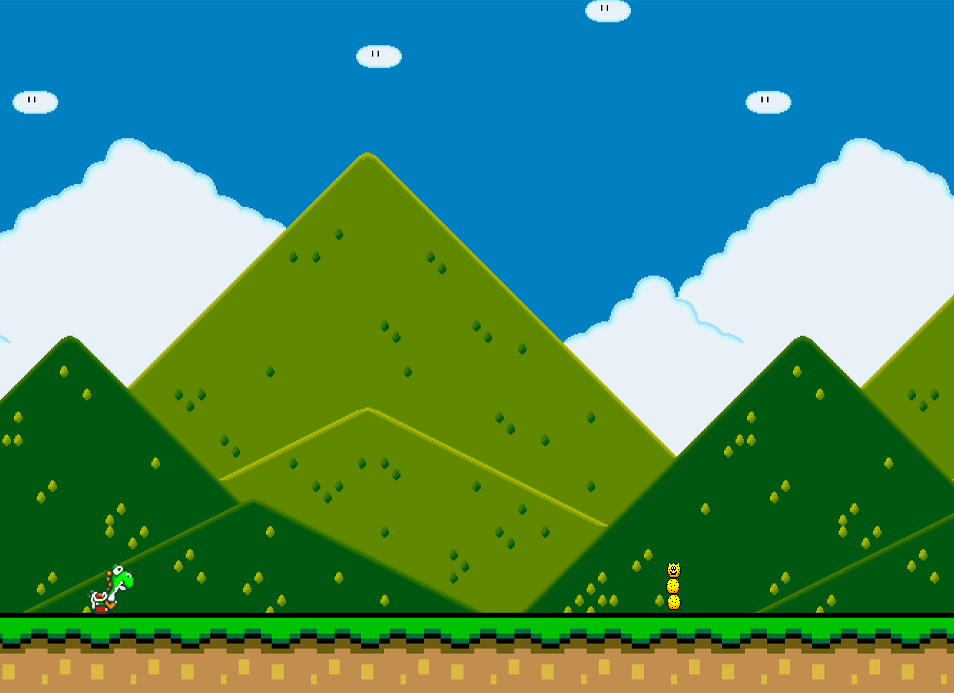
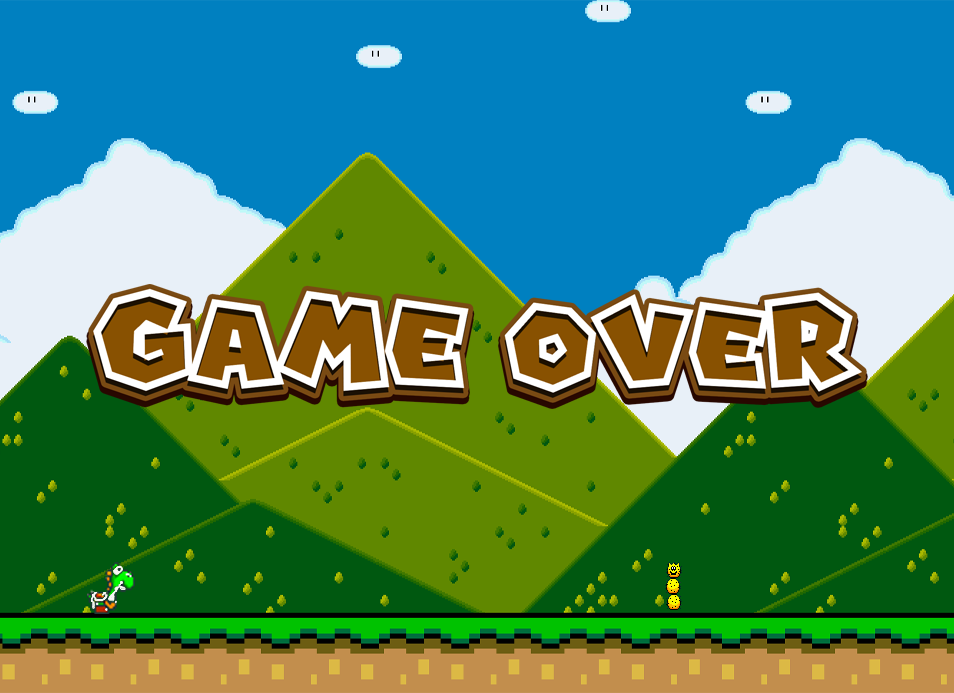
ajustes finais, correção pulo

Changed region(s): [[0.0912, 0.3939, 0.9119, 0.6061]]

diff --git a/script.js b/script.js
@@ -13,7 +13,6 @@ function handleKeyUp(event){
 }
 
 function jump(){
-
     isJumping = true;
 
     let upInterval = setInterval(() => {
@@ -34,7 +33,7 @@ function jump(){
         dino.style.bottom = position + 'px';
         }
 
-    }, 20);
+    }, 30);
 }
 
 function createCactus(){
@@ -43,25 +42,25 @@ function createCactus(){
     let randomTime = Math.random() * 6000;
 
     cactus.classList.add('cactus');
-    cactus.style.left = 1000 + 'px';
+    cactus.style.left = 1500 + 'px';
     background.appendChild(cactus);
 
     let leftInterval = setInterval(() =>{
-        if(cactusPosition < -60){
+        if(cactusPosition < -70){
             clearInterval(leftInterval);
             background.removeChild(cactus);
-        }else if (cactusPosition > 0 && cactusPosition < 60 && position < 60){
+        }else if (cactusPosition > 0 && cactusPosition < 40 && position < 40){
         
             clearInterval(leftInterval);
-            document.body.innerHTML ='<h1 class="game-over"> fim de jogo</h1>';
+            document.body.innerHTML ='<h1 class="game-over"> </h1>';
         }else{
             cactusPosition -= 10;
             cactus.style.left = cactusPosition + 'px';
         }
-    }, 20)
+    }, 90)
     setTimeout(createCactus, randomTime);
 }
 
 createCactus();
-document.addEventListener('keyup', handleKeyUp);
+document.addEventListener('keydown', handleKeyUp);
 

diff --git a/style.css b/style.css
@@ -1,6 +1,7 @@
 .dino{
     width:60px;
     height: 60px;
+    background-image: url(dino.png);
     position: absolute;
     bottom: 0;
 }
@@ -9,5 +10,34 @@
     position: absolute;
     width: 60px;
     height: 60px;
+    background-image: url(cactus.png);
     bottom: 0;
+}
+
+.game-over{
+    position: absolute;
+    background-image: url(example.png);
+    background-repeat: no-repeat;
+    width: 100%;
+    height: 100%;
+    left: 10%;
+}
+
+@keyframes slideright {
+    from{
+        background-position: 70000%;
+    }
+    to{
+        background-position: 0;
+    }
+}
+
+.background{
+    position: absolute;
+    bottom: 0;
+    background-image: url(background.png);
+    background-repeat: repeat-x;
+    animation: slideright 3000s infinite linear;
+    width: 100%;
+    height: 100%;
 }
